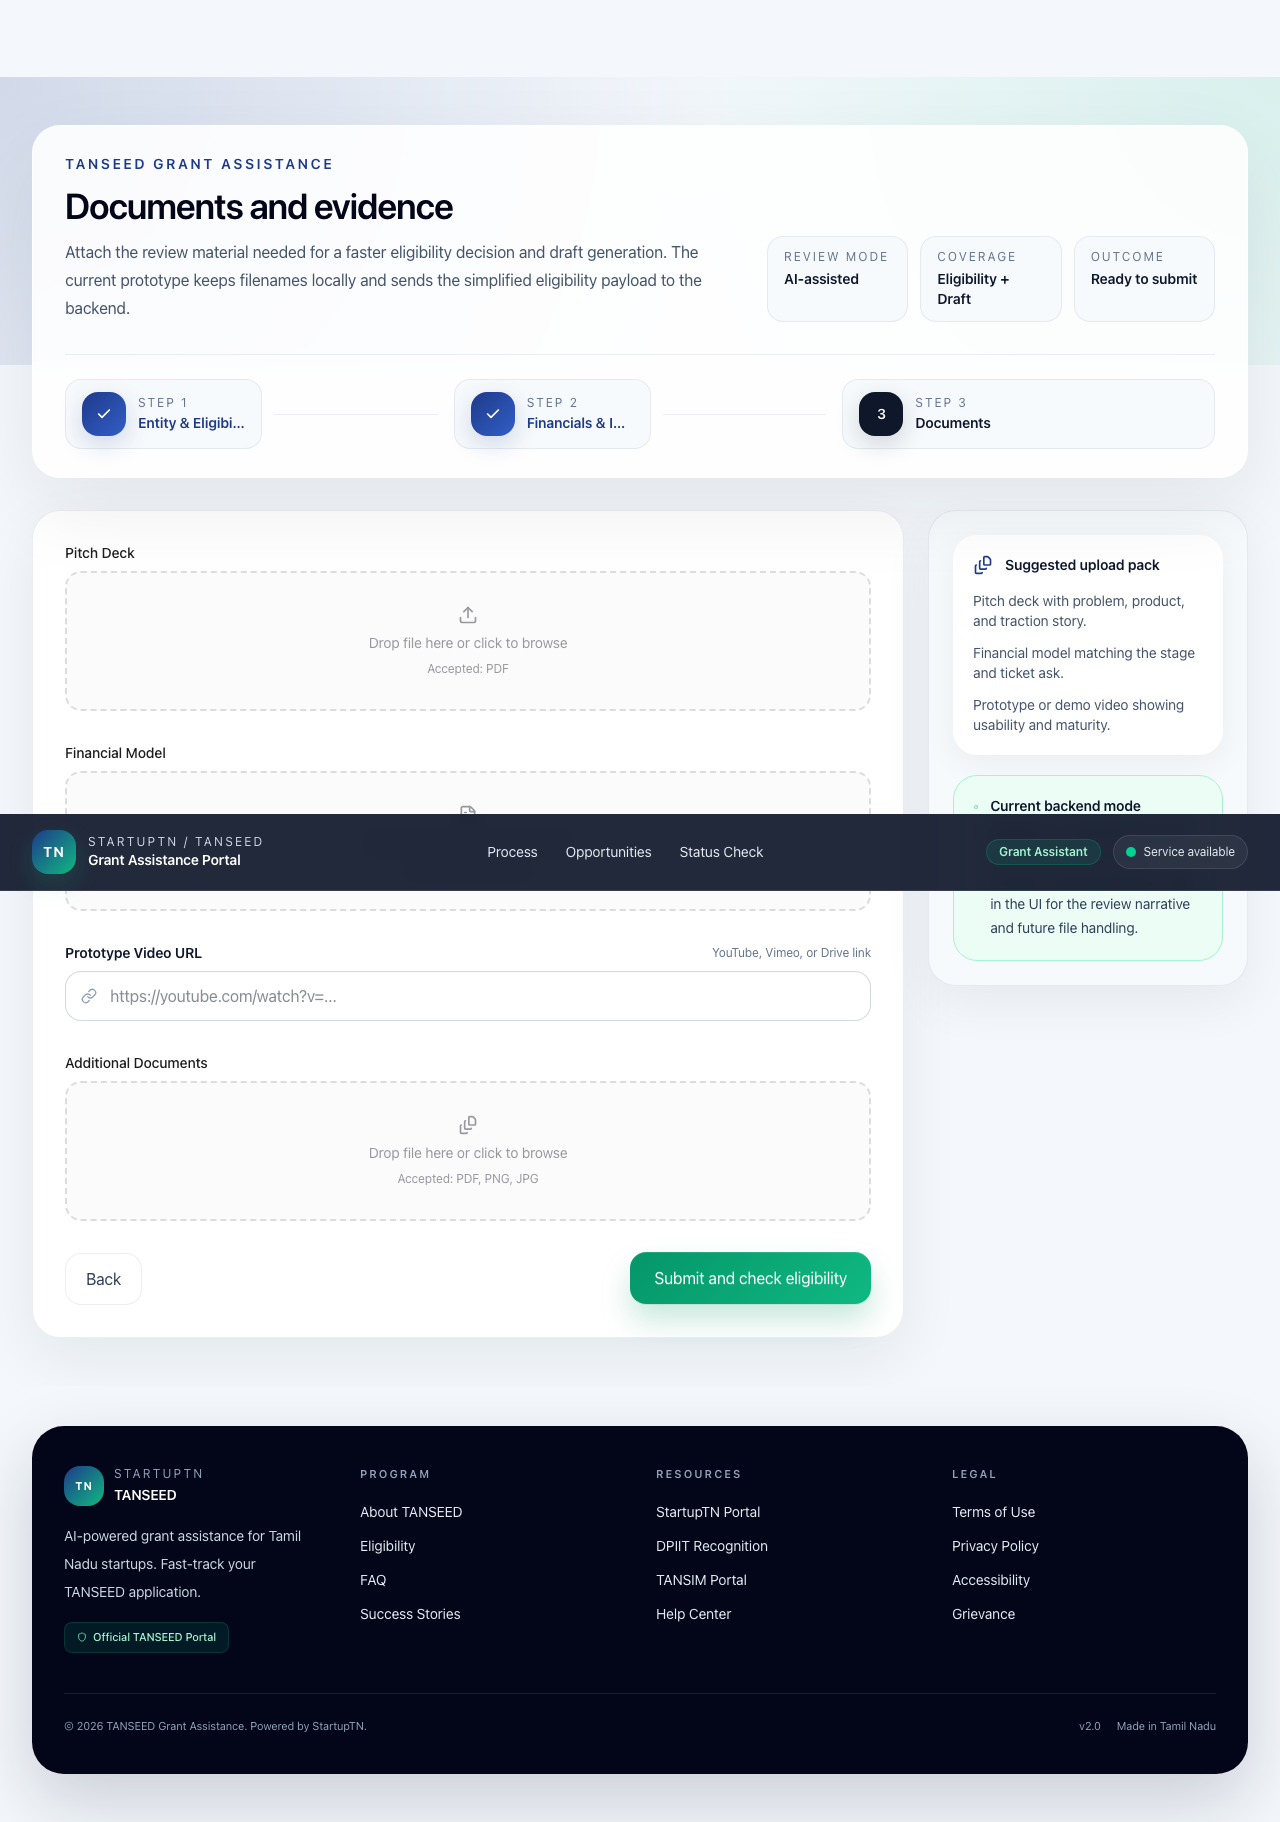
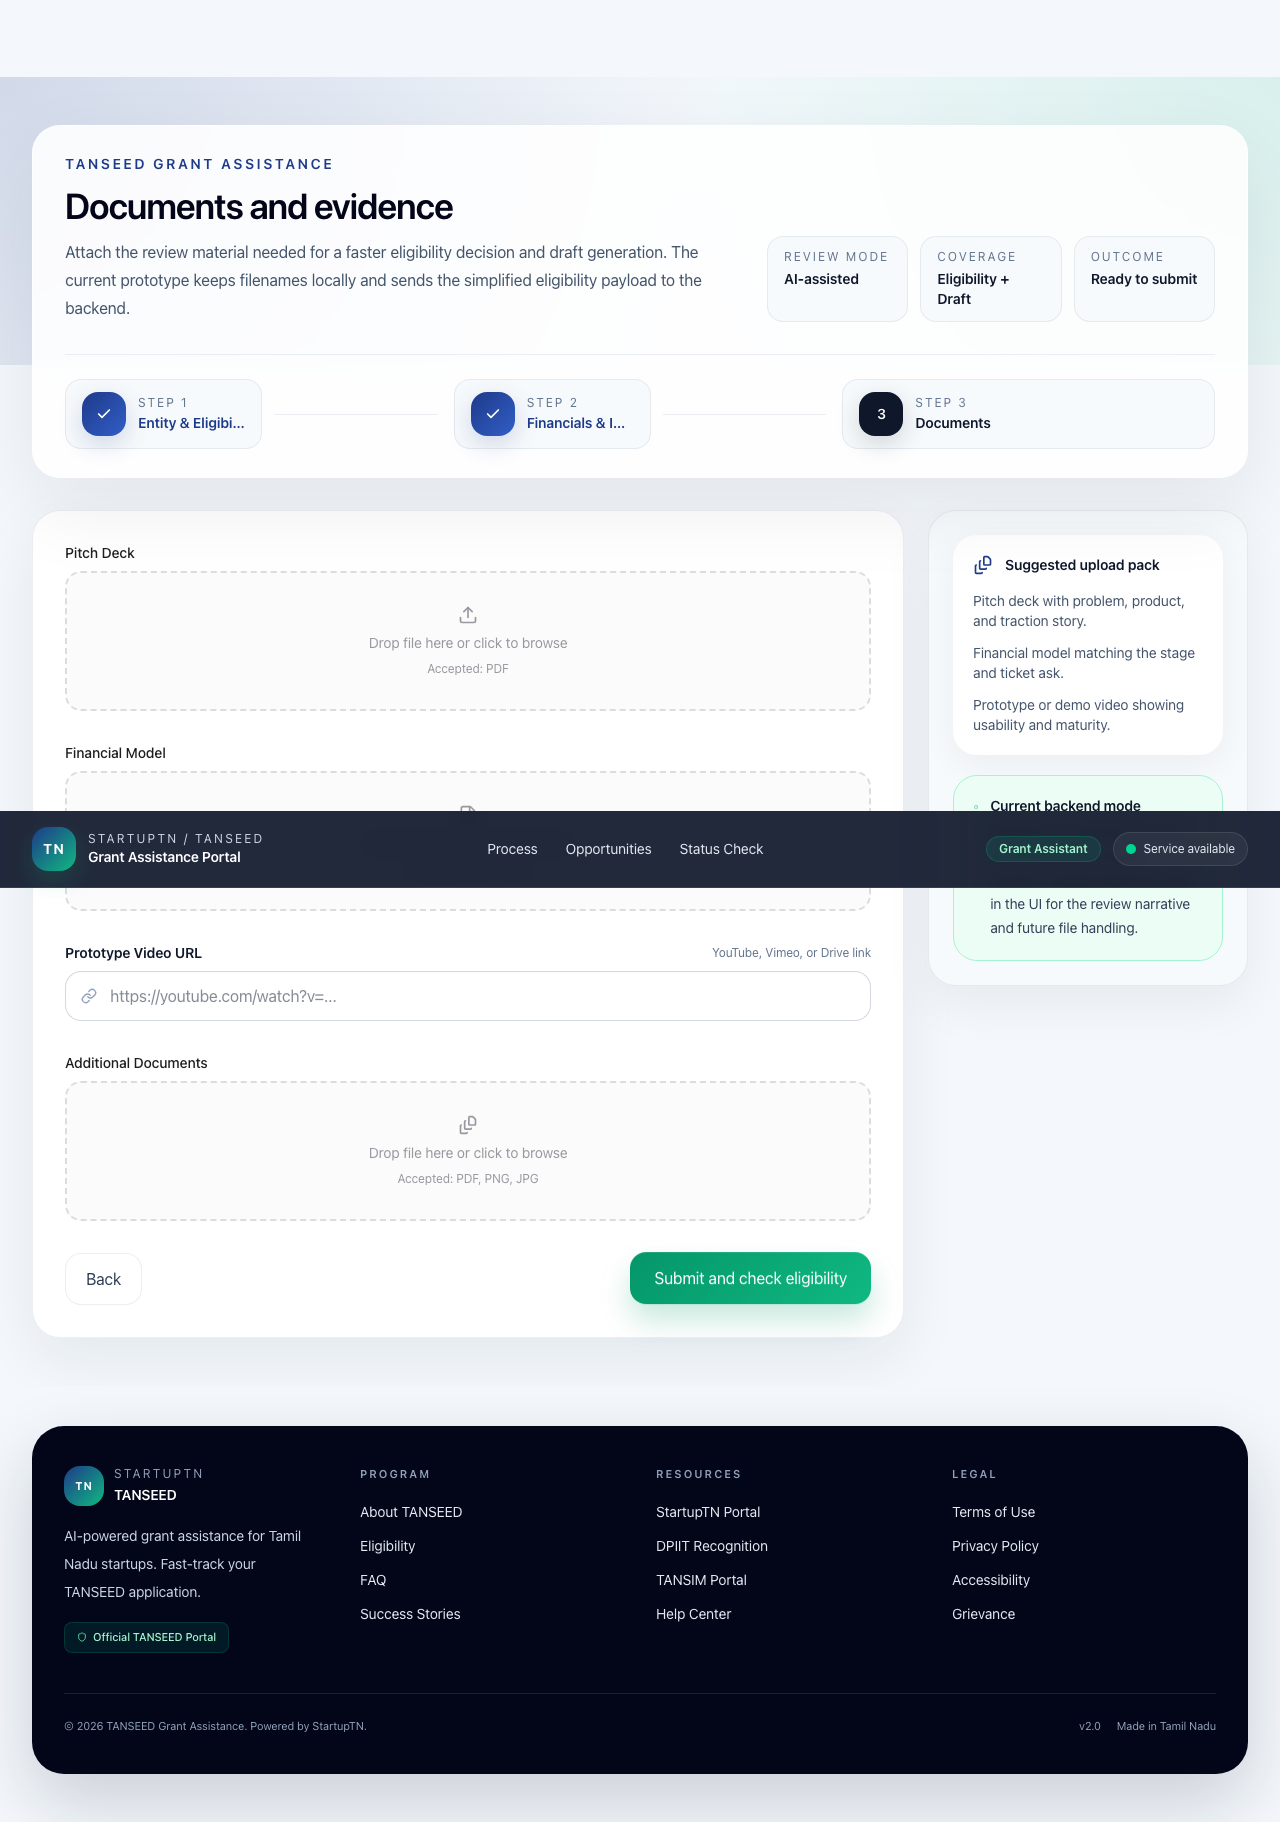
feat(screenshots): update application screenshots and README
- Ran updated Playwright screenshot suite against the running dev server
- Captured fresh screenshots for landing page, all 3 form steps,
  eligibility results, and application draft
- Updated README to include the new Draft Payment Gate screenshot
- Updated root screenshots/ and frontend/screenshots/ directories

diff --git a/frontend/take-screenshots.spec.ts b/frontend/take-screenshots.spec.ts
@@ -3,7 +3,7 @@ import { test, expect } from '@playwright/test';
 
 test.describe('Take Screenshots', () => {
   test('should navigate through the application and take screenshots', async ({ page }) => {
-    await page.goto('http://localhost:5174/');
+    await page.goto('http://127.0.0.1:5174/');
     await page.screenshot({ path: 'screenshots/01-landing-page.png', fullPage: true });
 
     await page.getByRole('button', { name: 'Start New Application' }).click();

diff --git a/frontend/playwright.config.ts b/frontend/playwright.config.ts
@@ -3,4 +3,9 @@ import { defineConfig } from '@playwright/test';
 export default defineConfig({
   testDir: './',
   timeout: 60000,
+  use: {
+    launchOptions: {
+      args: ['--disable-web-security', '--no-sandbox', '--disable-setuid-sandbox'],
+    },
+  },
 });

diff --git a/README.md b/README.md
@@ -26,6 +26,10 @@ An intelligent application platform for Tamil Nadu's **TANSEED** (Tamil Nadu Sta
 |:---:|:---:|
 | ![Results](screenshots/05-eligibility-results.png) | ![Draft](screenshots/06-application-draft.png) |
 
+| Draft Payment Gate |
+|:---:|
+| ![Draft Gate](screenshots/ash-48-draft-gate.png) |
+
 ## Features
 
 - **Multi-step application flow** — Guided intake from entity details through document upload with real-time validation
